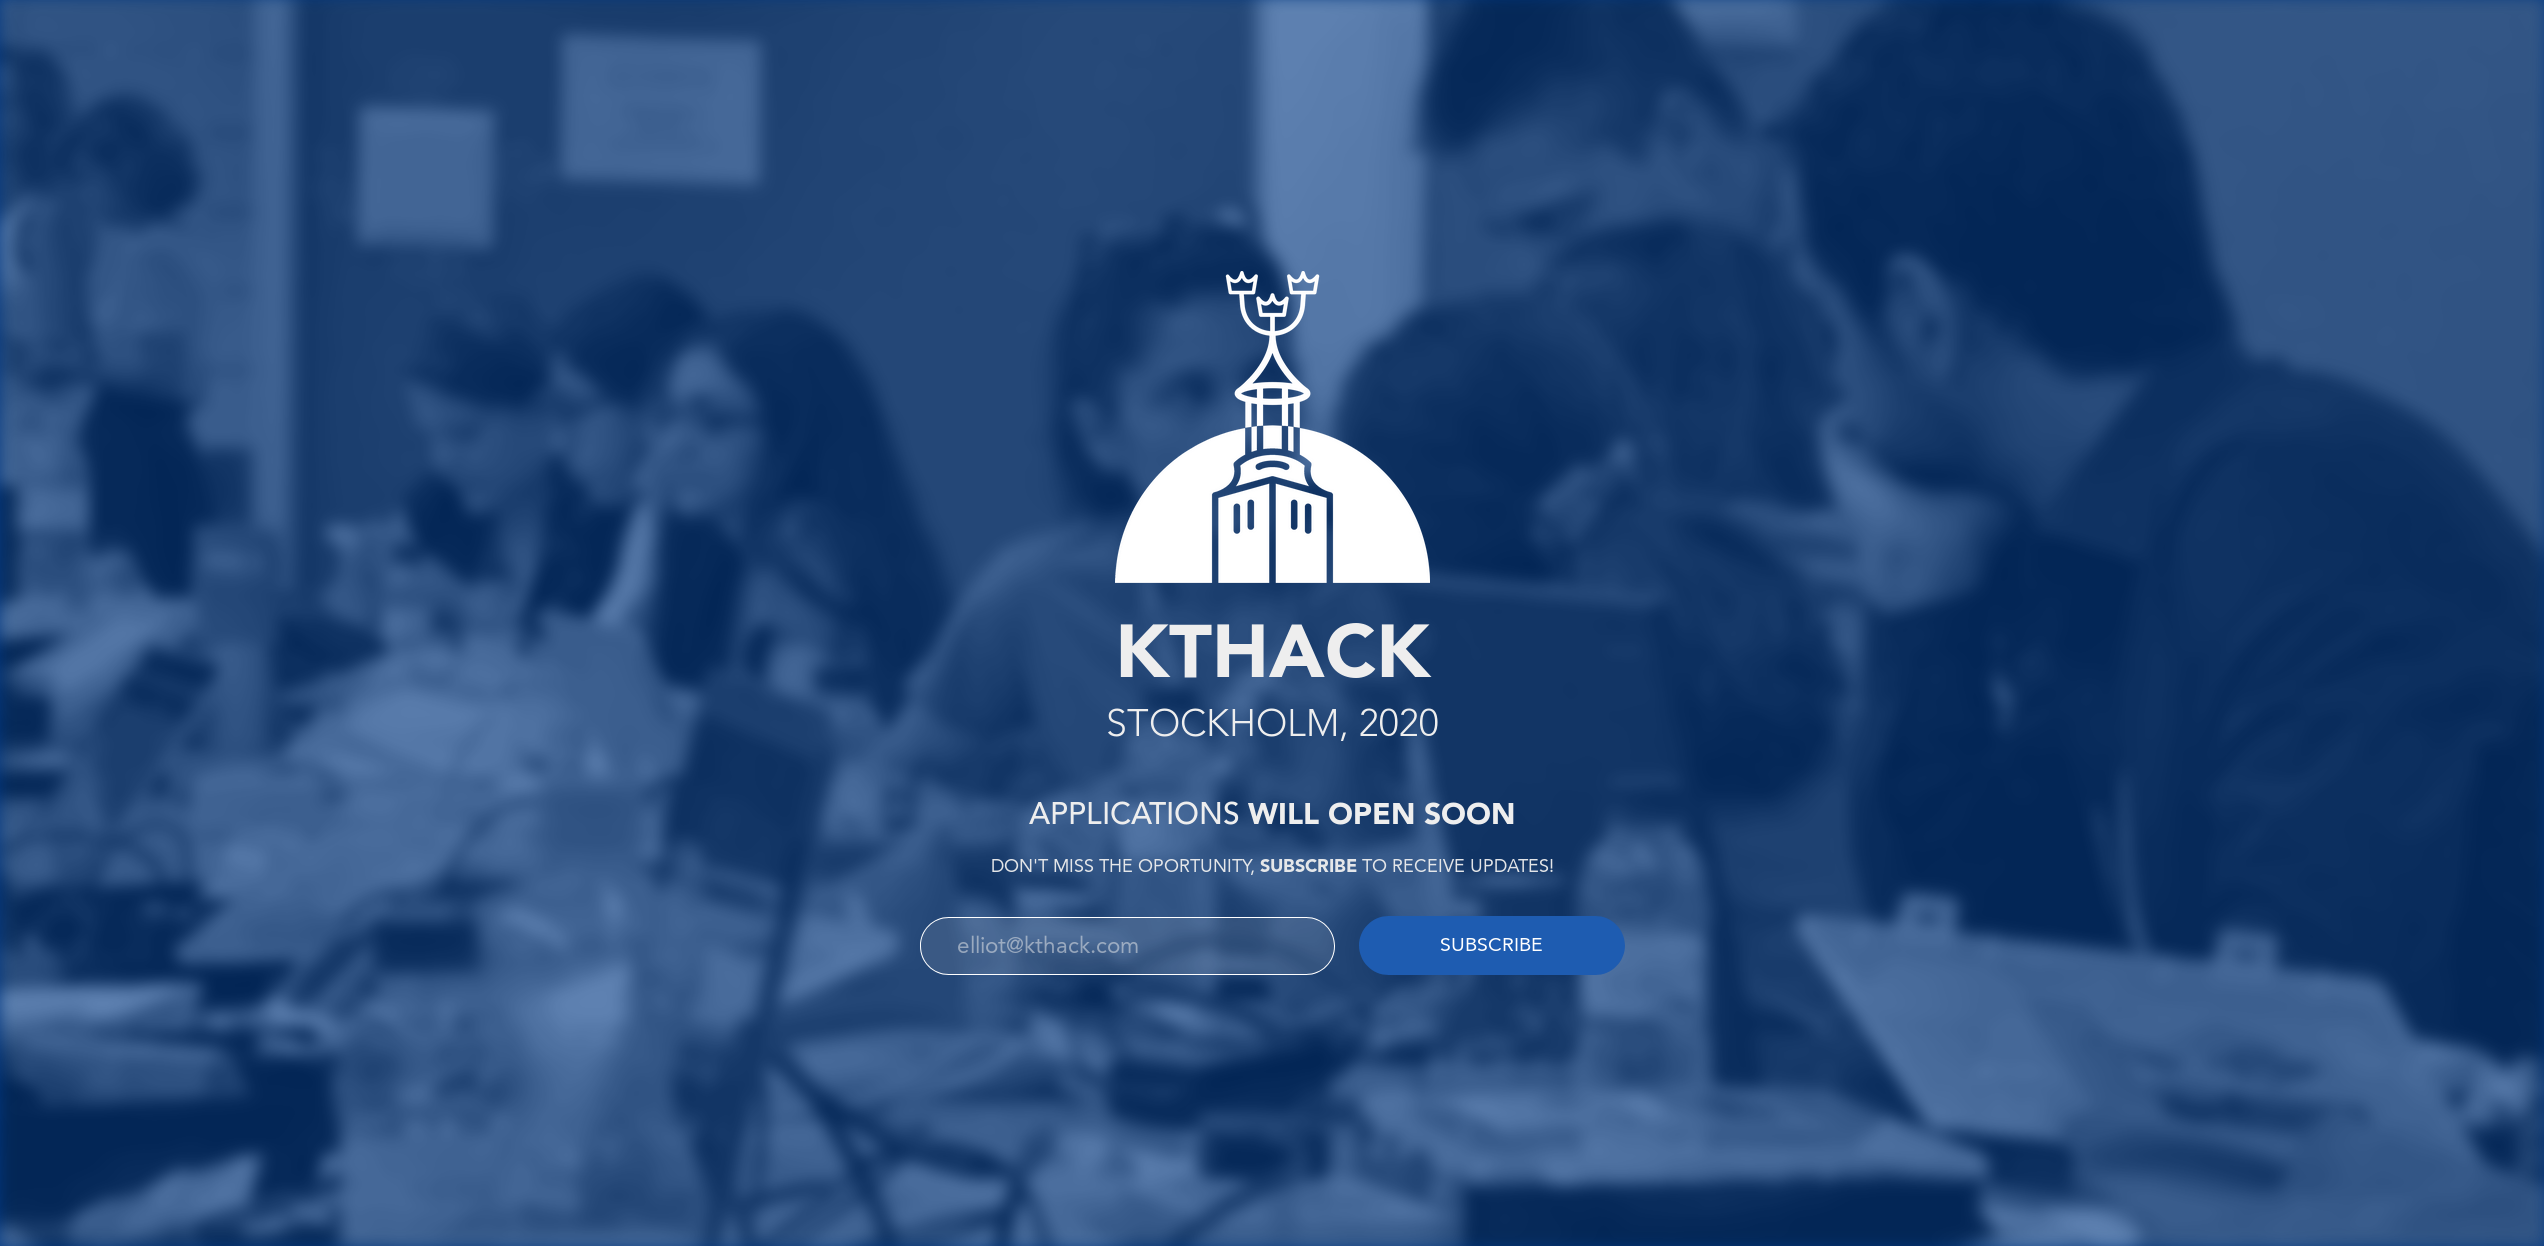
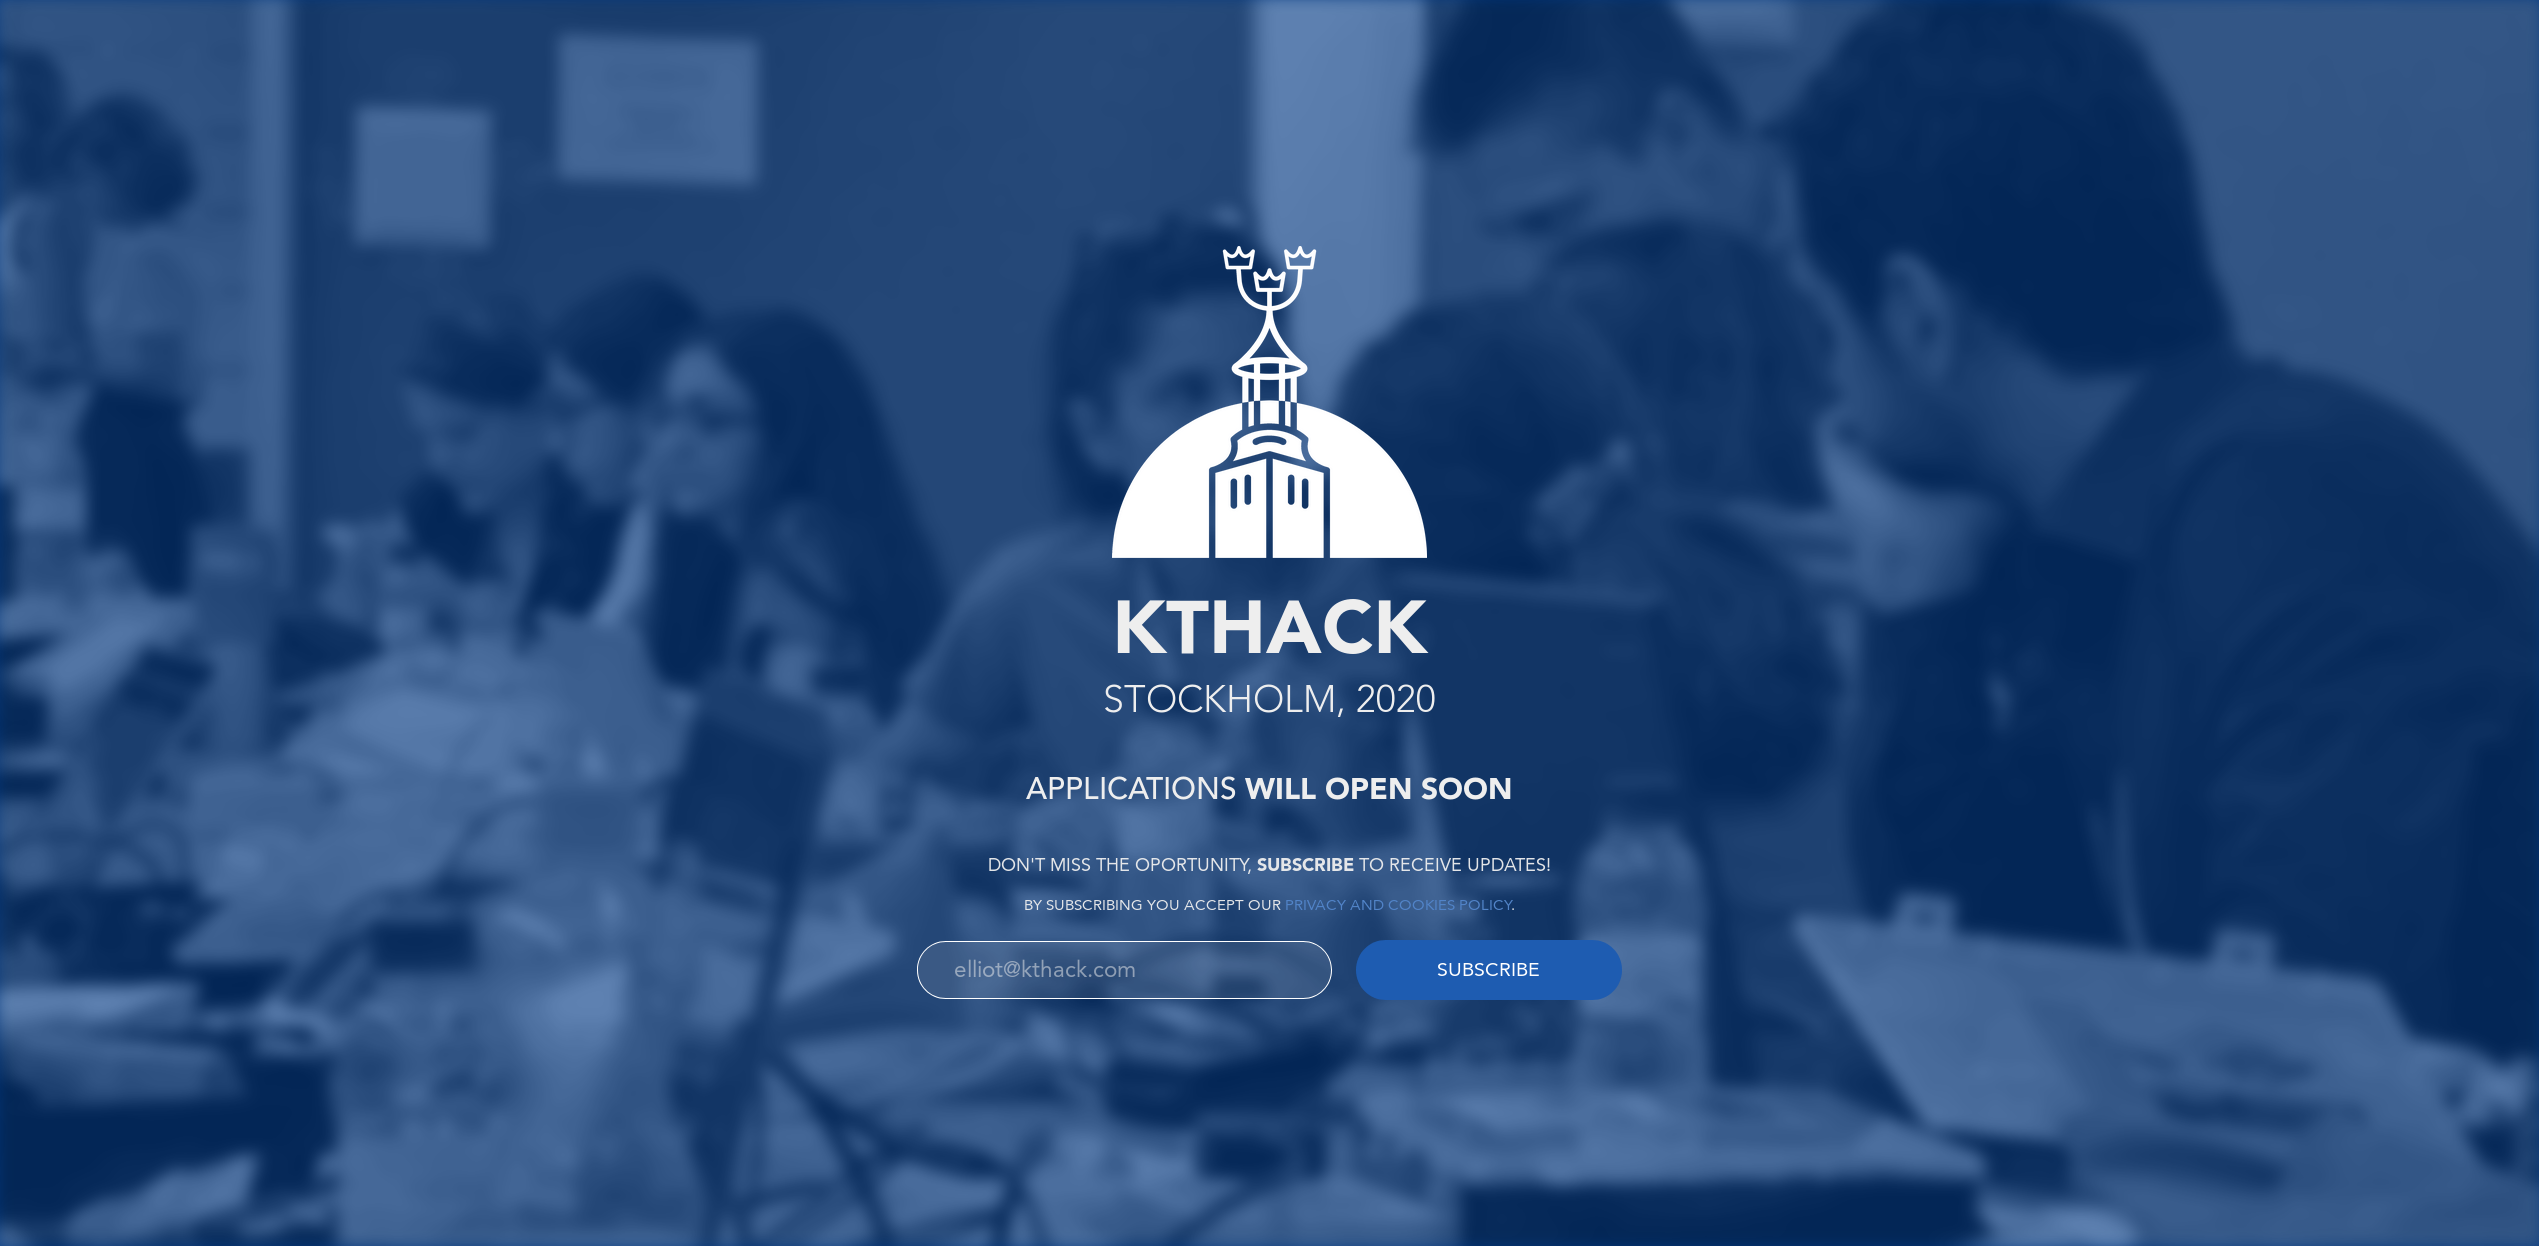
Update preview

Changed region(s): [[0.3734, 0.183, 0.5912, 0.7929], [0.5289, 0.7319, 0.6534, 0.8234]]

diff --git a/app/static/css/home.css b/app/static/css/home.css
@@ -56,7 +56,7 @@ html, body {
 .home-titles h4 {
     font-size: 20px;
     text-transform: uppercase;
-    margin-bottom: 1rem;
+    margin-bottom: 2rem;
 }
 
 .home-titles p, .home-titles a {
